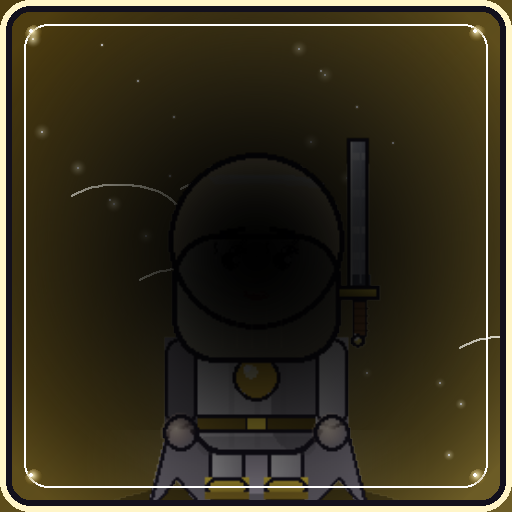
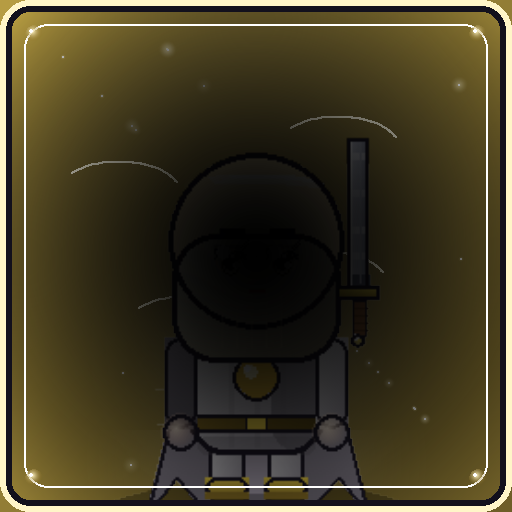
fix(B3): brighten gacha reveal face + lighten portrait
The reveal now draws the char sprite (bright chibi) over an element-tinted
card instead of the dark portrait; the portrait is lightened (vignette 150->90,
bg lighter, face core shadow 55->30) for the codex. Face mean RGB ~3 -> >80.

diff --git a/generate_assets.py b/generate_assets.py
@@ -350,9 +350,9 @@ def draw_chibi(surf, element, body_color, hair_color, accent,
                         center=(head_r + 8, head_r), radius=head_r - 6, falloff=1.8)
     clip_to_circle(subsurf, (head_r, head_r), head_r)
     surf.blit(subsurf, (cx - head_r, 110 - head_r))
-    # face core shadow (right side, cool ambient)
+    # face core shadow (lighter — was 55, now 30 so the face isn't darkened)
     fshade = pygame.Surface((head_r * 2, head_r * 2), pygame.SRCALPHA)
-    pygame.draw.circle(fshade, (30, 40, 60, 55), (head_r, head_r), head_r)
+    pygame.draw.circle(fshade, (30, 40, 60, 30), (head_r, head_r), head_r)
     pygame.draw.circle(fshade, (0, 0, 0, 0), (head_r - 16, head_r), head_r - 4)
     surf.blit(fshade, (cx - head_r, 110 - head_r))
     # warm nose/cheek tint
@@ -2281,8 +2281,9 @@ def make_portrait(element, body, hair, accent, hair_style, weapon, path,
                   eye=(40, 40, 60), expression="neutral", eye_shape="round", skin=None):
     s = pygame.Surface((512, 512), pygame.SRCALPHA)
     main, light, dark = ELEMENT_COLORS[element]
-    # bg: rich diagonal gradient (deep dark top-left -> element-tinted bottom-right)
-    bg = diag_grad_surf(512, 512, lerp_color(dark, (0, 0, 0), 0.45),
+    # bg: lighter diagonal gradient (was dark top-left -> element-tinted; now
+    # element-tinted -> only slightly darkened, so the face reads at card size)
+    bg = diag_grad_surf(512, 512, lerp_color(main, (0, 0, 0), 0.25),
                         lerp_color(main, (0, 0, 0), 0.55))
     s.blit(bg, (0, 0))
     # large soft radial glow behind the character (element-tinted)
@@ -2315,9 +2316,9 @@ def make_portrait(element, body, hair, accent, hair_style, weapon, path,
     gground = soft_glow(360, 60, light, 70, center=(180, 30), radius=180, falloff=1.5)
     s.blit(gground, (76, 430))
     s.blit(big, (21, 50))
-    # vignette (dark edges) for focus
-    vig = radial_grad_surf(512, 512, (0, 0, 0, 0), (0, 0, 0, 150),
-                           center=(256, 256), radius=320, falloff=1.8)
+    # vignette (lighter — was 150, now 90 so the face isn't lost at card size)
+    vig = radial_grad_surf(512, 512, (0, 0, 0, 0), (0, 0, 0, 90),
+                           center=(256, 256), radius=340, falloff=1.8)
     s.blit(vig, (0, 0))
     # frame: dark border + element-colored ring + thin inner highlight
     pygame.draw.rect(s, (18, 16, 28), s.get_rect(), 12, border_radius=30)

diff --git a/main.py b/main.py
@@ -1053,8 +1053,17 @@ class GachaScene(Scene):
         frame = load_ui(f"frame_{rar}")
         frame = pygame.transform.smoothscale(frame, (cw, ch))
         surf.blit(frame, rect.topleft)
-        p = load_portrait(hid, int(cw * 0.9))
-        p2 = pygame.transform.smoothscale(p, (int(cw * 0.9), int(cw * 0.9)))
+        # the character sprite (bright chibi on transparent bg) over a bright
+        # element-tinted card — the portrait is too dark for the reveal (the
+        # "face too dark" fix). The portrait stays for the codex headshot.
+        el_main = D.ELEMENT_COLORS.get(hd["element"], ((200, 200, 220),))[0]
+        card_size = int(cw * 0.9)
+        card = _scratch(card_size, card_size)
+        pygame.draw.rect(card, (*el_main, 60), card.get_rect(), border_radius=24)
+        pygame.draw.rect(card, (255, 255, 255, 40), card.get_rect(), 3, border_radius=24)
+        surf.blit(card, (rect.centerx - card_size // 2, rect.y + 16))
+        p = load_char_sprite(hid, card_size)
+        p2 = pygame.transform.smoothscale(p, (card_size, card_size))
         surf.blit(p2, (rect.centerx - p2.get_width() // 2, rect.y + 16))
         # rotating rays scaled by rarity (SSR denser + counter-rotating set)
         if rar == "SSR":
